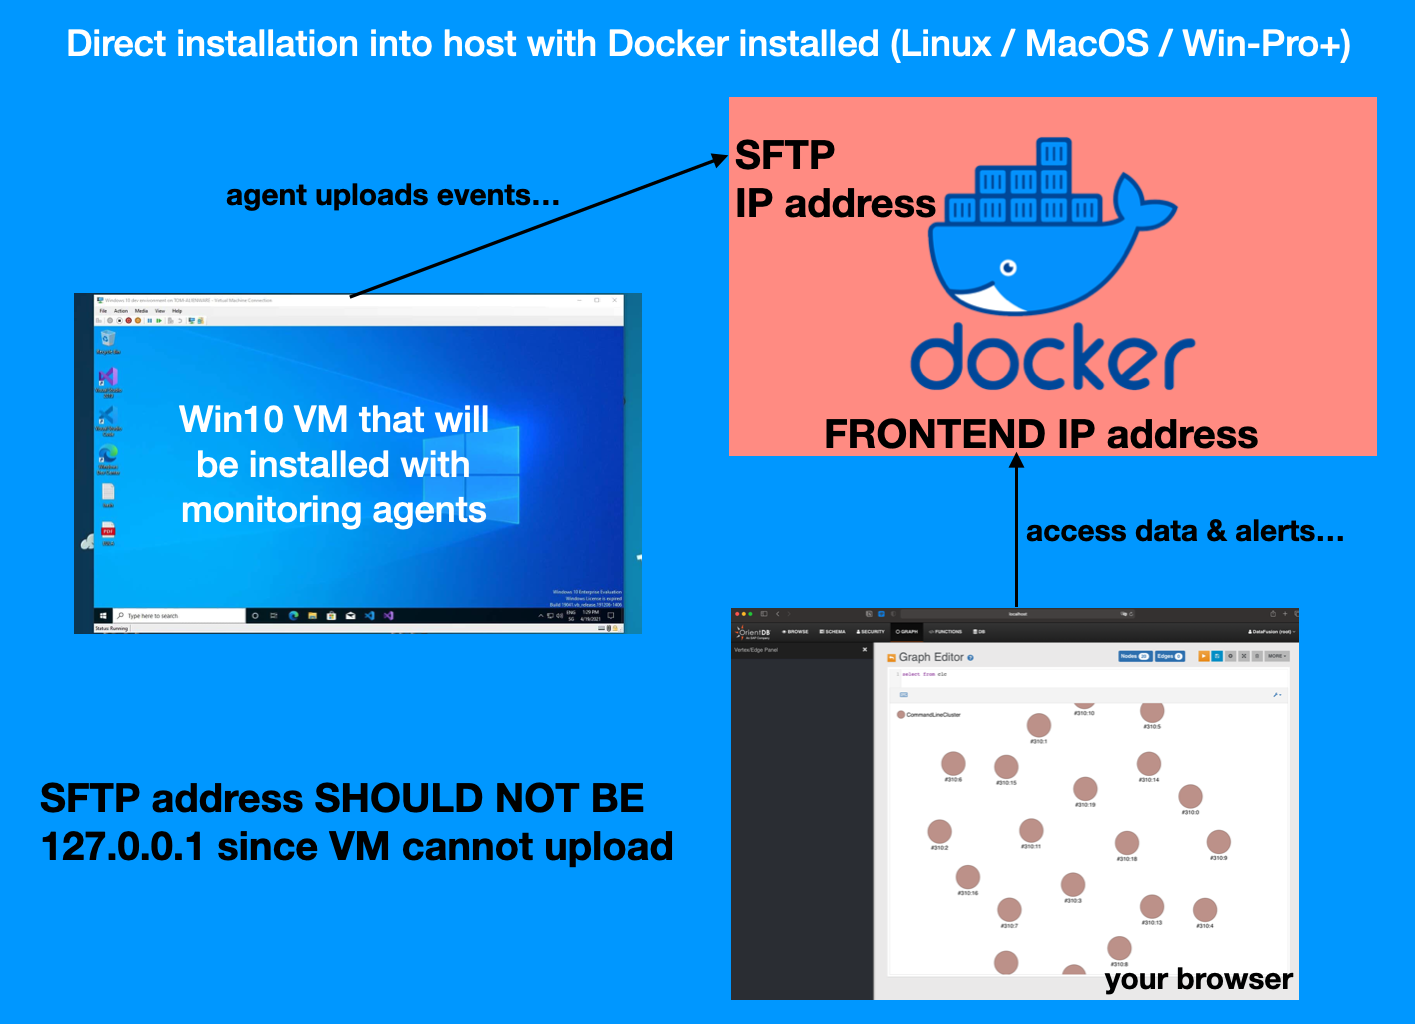
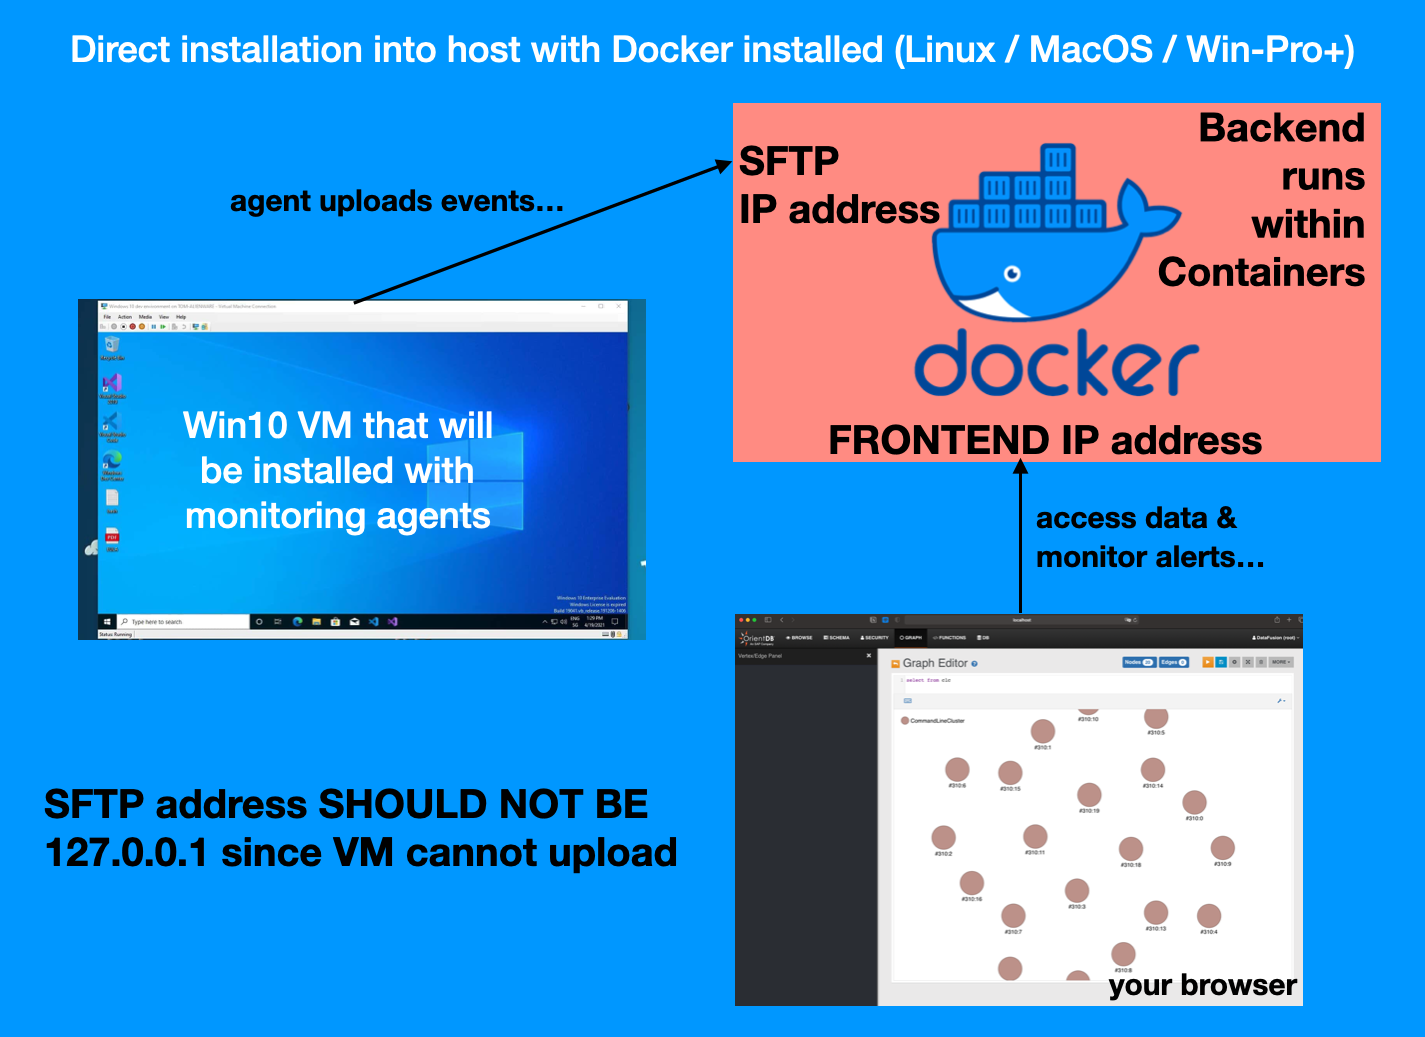
added diagram for clarity

diff --git a/readme.md b/readme.md
@@ -7,6 +7,8 @@ Click thumbnail below to watch:
 
 ![directInstallation](directInstallation.png)
 
+If you install backend **within a separate Linux VM**, **please ensure the Win 10 VM is using a network that can reach the backend VM**.
+
 ## Overview
 
 You can install OpenEDR backend on **directly on** **Ubuntu/Debian, MacOS (need a sudoer account**) or Windows Pro (or beyond) with **docker installed**, or within a Ubuntu/Debian **V**irtual **M**achine (you need to install latest Docker within the VM) with the following specs: 
@@ -15,14 +17,10 @@ You can install OpenEDR backend on **directly on** **Ubuntu/Debian, MacOS (need 
 * Host agents tested on Win10 & Server 2012R2 to 2019 64bit (we monitor these 'endpoints')
 * Windows endpoints needs to reach backend TCP port 2222 & 8888 
 
-Backend installation completed > check connectivity from endpoint > install endpoint agents
-
 ## Installation Steps
 **DO NOT preceed** with `sudo` **for Ubuntu/Debian & MacOS**, start a shell session & run the following:
 
 `curl -L https://github.com/jymcheong/OpenEDR/tarball/master | tar xz && mv jym* openEDR && cd openEDR && ./install.sh`
-
-
 
 *For **Windows Pro+ with [WSL2 & Docker installed](https://docs.docker.com/desktop/windows/wsl/)***, start a Powershell session, copy & run the following:
 
@@ -32,14 +30,15 @@ Default Powershell location is user's home folder eg. `C:\Users\yourusername`. I
 
 ### Select IP Addresses for SFTP Receiver & Monitoring Frontends
 
-The installation script will prompt you to select addresses for the two stated purposes. 
+The installation script *will prompt you to select addresses* for the two stated purposes. 
 
-- Windows endpoints installed with host-agents will upload to the SFTP Receiver via that selected IP
+- Windows endpoints host-agents will upload events to the SFTP Receiver via that selected IP
 - To access OrientDB & Alert monitoring web interfaces, select an address *preferably from a different interface* from the SFTP Receiver.
+- You may choose the SAME IP (not 127.0.0.1) for testing or exploration.
 
 Kudos to [YJ's contribution for this enhancement](https://www.notion.so/jymcheong/Prompt-IP-address-selection-during-backend-installation-b1d21b69cc3c4e3aad98802f0a71ba1d).
 
-### Testing Connection between Windows endpoint -> Backend
+### Testing Connection between Windows Endpoint -> Backend
 
 Simply visit:
 
@@ -51,11 +50,9 @@ http://<YOUR_SFTP_RECEIVER_IP>:8888/
 
 ![connectivityTest](connectivityTest.png)
 
+### Installing host agents on Windows Endpoints
 
-
-### Use Powershell  to install host agents
-
-**Paste into an admin powershell session to run those commands**. You should REBOOT the Windows endpoint before proceeding...
+**Paste into an admin powershell session to run those commands**. **You should REBOOT the Windows endpoint before proceeding...**
 
 Go **your backend** (NOT the Windows endpoint), use `docker logs -f orientdb` & you should see something like this:
 
